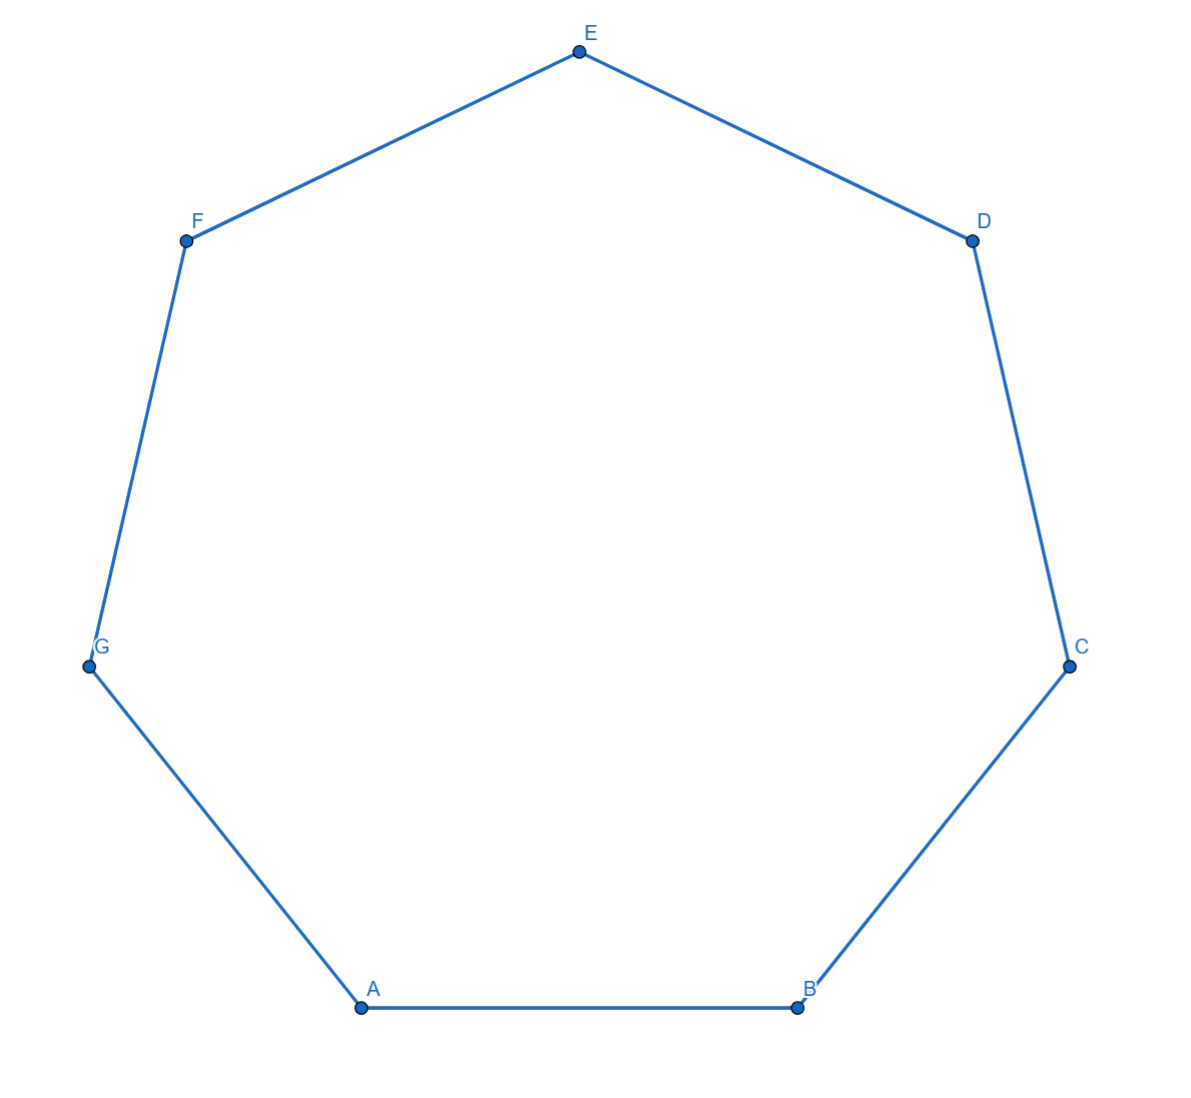
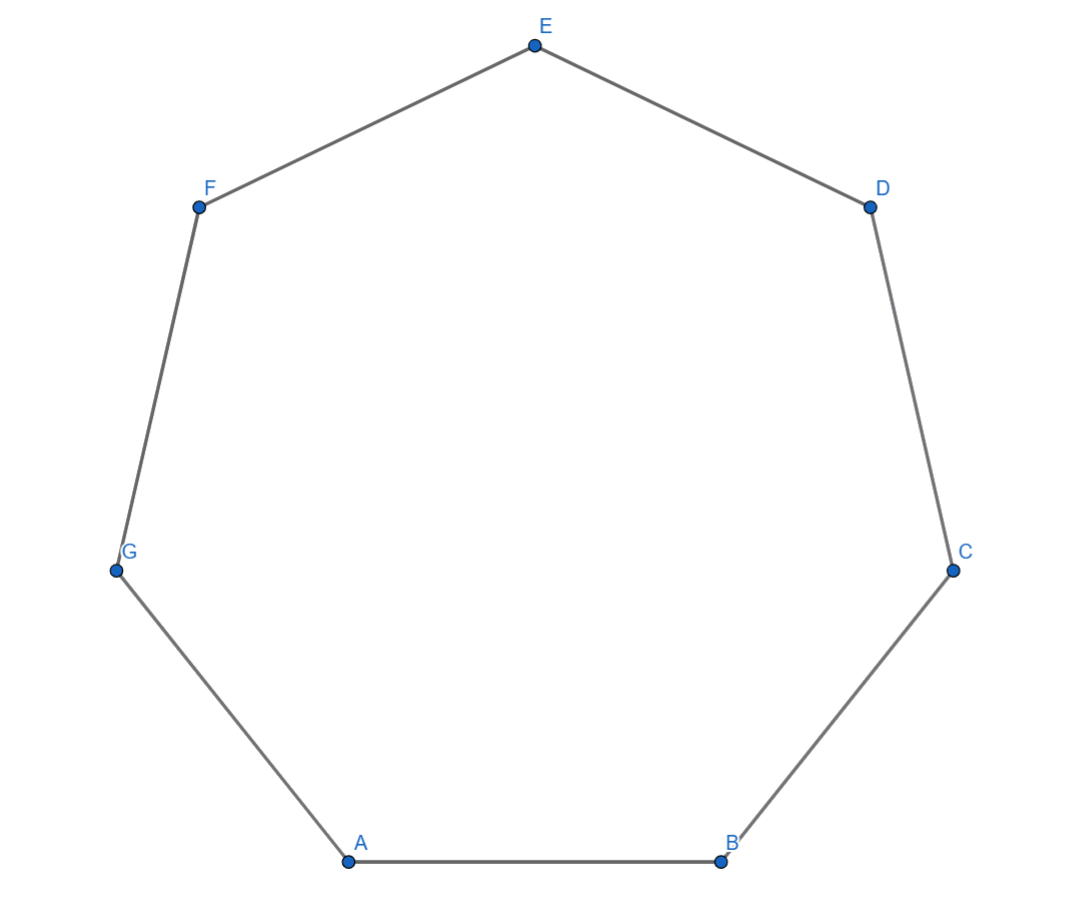
Work on 2.4 notes

diff --git a/ch2_graph_theory/2.4_notes.md b/ch2_graph_theory/2.4_notes.md
@@ -24,10 +24,12 @@
      - Here is a visual of a $K_4$ graph
        - ![A](../visuals/2.4_exercise2_a.png)
      - The graph above does *not* have an Euler circuit. We know this because the degree of every vertex is odd, and graphs with an Euler circuit must have all even-degree vertices.
+       - Since there are 4 total vertices and all of them are odd, this means that there are more than 2 odd vertices and it thus does not have an Euler trail, either.
    - $K_5$
      - Here is a visual of a $K_5$ graph
        - ![B](../visuals/2.4_exercise2_b.png)
      - The graph above has an Euler circuit, which we can see because there are no odd-degree vertices.
+       - This, of course, means that the graph also has an Euler trail, as an Euler circuit is an Euler trail with extra requirements
    - $K_{5,7}$
      - Here is a visual of a $K_{5,7}$ graph
        - ![C](../visuals/2.4_exercise2_c.png)
@@ -42,6 +44,7 @@
      - Here is a visual of a $C_7$ graph
        - ![E](../visuals/2.4_exercise2_e.png)
      - This graph *does* have an Euler circuit. We can see this easily by looking at the graph and seeing that all vertices have a degree of 2. In addition, we know from previous sections that in *all* cycle graphs, the degree of every vertex is 2.
+       - Once again, this means that the graph also has an Euler trail.
    - $P_7$
      - Here is a visual of a $P_7$ graph
        - ![F](../visuals/2.4_exercise2_f.png)